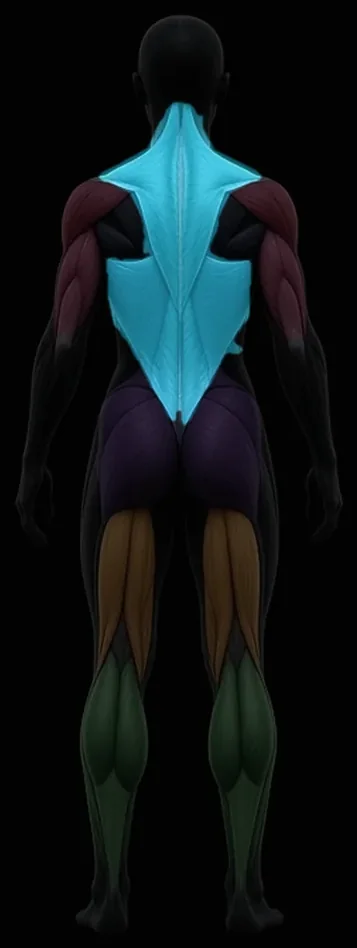
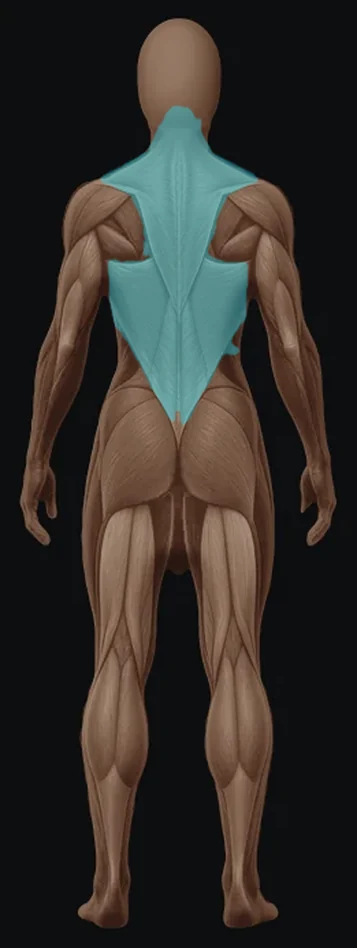
fix(site): muscle map layout on desktop, female skin-tone plates

diff --git a/index.html b/index.html
@@ -263,9 +263,9 @@
       <div class="mmap-col">
       <div class="mmap-flip-hit" tabindex="0" role="button" aria-label="Flip body front or back"></div>
       <figure class="body2d is-back" aria-label="SculptaLab 2D muscle map; tap beside the body or ↻ to flip front and back">
-        <img class="b2-base b2-back-base" src="/anatomy/back.webp" width="357" height="948" alt="" loading="lazy" decoding="async" />
-        <img class="b2-base b2-front-base" src="/anatomy/front.webp" width="357" height="948" alt="" loading="lazy" decoding="async" />
-        <img class="b2-hl on" data-for="back-glutes" data-side="back" src="/anatomy/back-glutes.webp" width="357" height="948" alt="" loading="lazy" decoding="async" /><img class="b2-hl" data-for="back-hamstrings" data-side="back" src="/anatomy/back-hamstrings.webp" width="357" height="948" alt="" loading="lazy" decoding="async" /><img class="b2-hl" data-for="front-quads" data-side="front" src="/anatomy/front-quads.webp" width="357" height="948" alt="" loading="lazy" decoding="async" /><img class="b2-hl" data-for="back-calves" data-side="back" src="/anatomy/back-calves.webp" width="357" height="948" alt="" loading="lazy" decoding="async" /><img class="b2-hl" data-for="back-back" data-side="back" src="/anatomy/back-back.webp" width="357" height="948" alt="" loading="lazy" decoding="async" /><img class="b2-hl" data-for="back-shoulders" data-side="back" src="/anatomy/back-shoulders.webp" width="357" height="948" alt="" loading="lazy" decoding="async" /><img class="b2-hl" data-for="back-arms" data-side="back" src="/anatomy/back-arms.webp" width="357" height="948" alt="" loading="lazy" decoding="async" /><img class="b2-hl" data-for="front-core" data-side="front" src="/anatomy/front-core.webp" width="357" height="948" alt="" loading="lazy" decoding="async" />
+        <img class="b2-base b2-back-base" src="/anatomy/back.webp" width="357" height="948" alt="" loading="eager" fetchpriority="high" decoding="async" />
+        <img class="b2-base b2-front-base" src="/anatomy/front.webp" width="357" height="948" alt="" loading="eager" fetchpriority="high" decoding="async" />
+        <img class="b2-hl on" data-for="back-glutes" data-side="back" src="/anatomy/back-glutes.webp" width="357" height="948" alt="" loading="eager" decoding="async" /><img class="b2-hl" data-for="back-hamstrings" data-side="back" src="/anatomy/back-hamstrings.webp" width="357" height="948" alt="" loading="eager" decoding="async" /><img class="b2-hl" data-for="front-quads" data-side="front" src="/anatomy/front-quads.webp" width="357" height="948" alt="" loading="eager" decoding="async" /><img class="b2-hl" data-for="back-calves" data-side="back" src="/anatomy/back-calves.webp" width="357" height="948" alt="" loading="eager" decoding="async" /><img class="b2-hl" data-for="back-back" data-side="back" src="/anatomy/back-back.webp" width="357" height="948" alt="" loading="eager" decoding="async" /><img class="b2-hl" data-for="back-shoulders" data-side="back" src="/anatomy/back-shoulders.webp" width="357" height="948" alt="" loading="eager" decoding="async" /><img class="b2-hl" data-for="back-arms" data-side="back" src="/anatomy/back-arms.webp" width="357" height="948" alt="" loading="eager" decoding="async" /><img class="b2-hl" data-for="front-core" data-side="front" src="/anatomy/front-core.webp" width="357" height="948" alt="" loading="eager" decoding="async" />
         <button type="button" class="b2-flip" aria-label="Flip body front or back"><svg viewBox="0 0 24 24" aria-hidden="true"><path d="M7 4 3 8l4 4"/><path d="M17 20l4-4-4-4"/><path d="M3 8h12a4 4 0 0 1 4 4v0a4 4 0 0 0 4 4h2"/></svg></button>
         <figcaption class="b2-chip"><i></i><span>Glutes</span></figcaption>
       </figure>

diff --git a/src/style.css b/src/style.css
@@ -502,8 +502,9 @@ em{font-family:var(--serif);font-style:italic;font-weight:400;letter-spacing:-.0
 /* ---------- 2D muscle map player ---------- */
 .sbox-map{grid-column:1/-1}
 .mm-sub{margin-bottom:4px}
-.mmap{display:grid;grid-template-columns:minmax(180px,300px) 1fr;gap:clamp(20px,4vw,56px);align-items:center;margin-top:18px}
-.body2d{position:relative;margin:0;aspect-ratio:357/948;max-height:560px;border-radius:24px;overflow:hidden;background:#07090a;border:1px solid var(--line);box-shadow:0 30px 80px -30px rgba(0,0,0,.8),inset 0 0 60px rgba(255,138,61,.05);transform-style:preserve-3d}
+.mmap{display:grid;grid-template-columns:minmax(200px,300px) 1fr;gap:clamp(20px,4vw,56px);align-items:center;margin-top:18px}
+.mmap-col{position:relative;justify-self:center;width:100%;max-width:300px;min-width:200px}
+.body2d{position:relative;margin:0 auto;width:100%;max-width:300px;aspect-ratio:357/948;max-height:560px;height:auto;border-radius:24px;overflow:hidden;background:#07090a;border:1px solid var(--line);box-shadow:0 30px 80px -30px rgba(0,0,0,.8),inset 0 0 60px rgba(255,138,61,.05);transform-style:preserve-3d;contain:layout paint}
 .body2d img{position:absolute;inset:0;width:100%;height:100%;object-fit:contain;transition:opacity .55s var(--ease)}
 .body2d .b2-hl{opacity:0}.body2d .b2-hl.on{opacity:1}
 .b2-chip{position:absolute;left:50%;bottom:14px;transform:translateX(-50%);display:flex;align-items:center;gap:8px;padding:7px 14px;border-radius:99px;background:rgba(12,10,9,.78);border:1px solid color-mix(in srgb,var(--cur,#B44DFF) 60%,transparent);font-size:13px;font-weight:600;white-space:nowrap;backdrop-filter:blur(6px)}
@@ -516,7 +517,6 @@ em{font-family:var(--serif);font-style:italic;font-weight:400;letter-spacing:-.0
 .mmap .mlist li.on{background:color-mix(in srgb,var(--mc) 14%,transparent);box-shadow:inset 0 0 0 1px color-mix(in srgb,var(--mc) 45%,transparent)}
 .mmap .mlist li.on .bar i{background:var(--mc)!important}
 .mmap .mlist li{grid-template-columns:120px 1fr}
-.mmap-col{position:relative;justify-self:center}
 .mmap-flip-hit{position:absolute;right:100%;top:50%;width:clamp(28px,8vw,48px);height:min(420px,56vw);margin-right:10px;transform:translateY(-50%);z-index:4;cursor:pointer;border-radius:12px;background:linear-gradient(90deg,transparent,rgba(255,138,61,.06))}
 .mmap-flip-hit:focus-visible{outline:2px solid var(--b2);outline-offset:2px}
 .sc-feature .phone{margin:14px auto 0}

diff --git a/scripts/export-anatomy-v4.py b/scripts/export-anatomy-v4.py
@@ -1,0 +1,86 @@
+#!/usr/bin/env python3
+"""Export female skin-tone mi-anatomy-v4 plates + highlights for the marketing muscle map."""
+from pathlib import Path
+
+from PIL import Image, ImageEnhance
+
+SCULPTA = Path("/agent/repos/sculptalab/apps/web/public/mi-anatomy-v4")
+OUT = Path(__file__).resolve().parents[1] / "public/anatomy"
+TARGET = (357, 948)
+BRIGHT = 0.72
+COLOR = 0.92
+TINT = 0.42
+PALETTE = {
+    "glutes": "#B44DFF",
+    "hamstrings": "#FDE047",
+    "quads": "#FF3B5C",
+    "back": "#22D3EE",
+    "shoulders": "#FF5FA2",
+    "core": "#6C63FF",
+    "arms": "#84CC16",
+    "calves": "#3DFF8A",
+}
+BACK = SCULPTA / "plates-skin-tone/female-back.webp"
+FRONT = SCULPTA / "plates-skin-tone/female-front.webp"
+MASKS = SCULPTA / "masks-skin-tone"
+EXPORTS = {
+    "back.webp": ("back", None),
+    "front.webp": ("front", None),
+    "back-glutes.webp": ("back", "glutes"),
+    "back-hamstrings.webp": ("back", "hamstrings"),
+    "back-back.webp": ("back", "back"),
+    "back-calves.webp": ("back", "calves"),
+    "back-shoulders.webp": ("back", "shoulders"),
+    "back-arms.webp": ("back", "arms"),
+    "front-quads.webp": ("front", "quads"),
+    "front-core.webp": ("front", "core"),
+}
+
+
+def grade(plate: Image.Image) -> Image.Image:
+    out = ImageEnhance.Brightness(plate).enhance(BRIGHT)
+    return ImageEnhance.Color(out).enhance(COLOR)
+
+
+def load_plate(path: Path) -> Image.Image:
+    return grade(path.convert("RGBA").resize(TARGET, Image.Resampling.LANCZOS))
+
+
+def base(plate_path: Path) -> Image.Image:
+    canvas = Image.new("RGBA", TARGET, (7, 8, 11, 255))
+    canvas.alpha_composite(load_plate(Image.open(plate_path)))
+    return canvas.convert("RGB")
+
+
+def highlight(plate_path: Path, mask_path: Path, hex_color: str) -> Image.Image:
+    plate = load_plate(Image.open(plate_path))
+    mask = Image.open(mask_path)
+    if mask.size != plate.size:
+        mask = mask.resize(plate.size, Image.Resampling.BILINEAR)
+    alpha = mask.split()[-1].point(
+        lambda p: 0 if p < 24 else (255 if p > 200 else int((p - 24) * 255 / (200 - 24)))
+    )
+    r, g, b = (int(hex_color[i : i + 2], 16) for i in (1, 3, 5))
+    tint = Image.new("RGBA", plate.size, (r, g, b, 255))
+    cut = Image.blend(ImageEnhance.Brightness(plate).enhance(1.08), tint, TINT)
+    cut.putalpha(alpha)
+    canvas = Image.new("RGBA", plate.size, (7, 8, 11, 255))
+    canvas.alpha_composite(plate)
+    canvas.alpha_composite(cut)
+    return canvas.convert("RGB")
+
+
+def main() -> None:
+    OUT.mkdir(parents=True, exist_ok=True)
+    for fname, (view, region) in EXPORTS.items():
+        plate = BACK if view == "back" else FRONT
+        if region is None:
+            base(plate).save(OUT / fname, "WEBP", quality=86, method=6)
+        else:
+            mask = MASKS / f"female-{view}" / f"{region}.webp"
+            highlight(plate, mask, PALETTE[region]).save(OUT / fname, "WEBP", quality=86, method=6)
+        print(fname)
+
+
+if __name__ == "__main__":
+    main()
